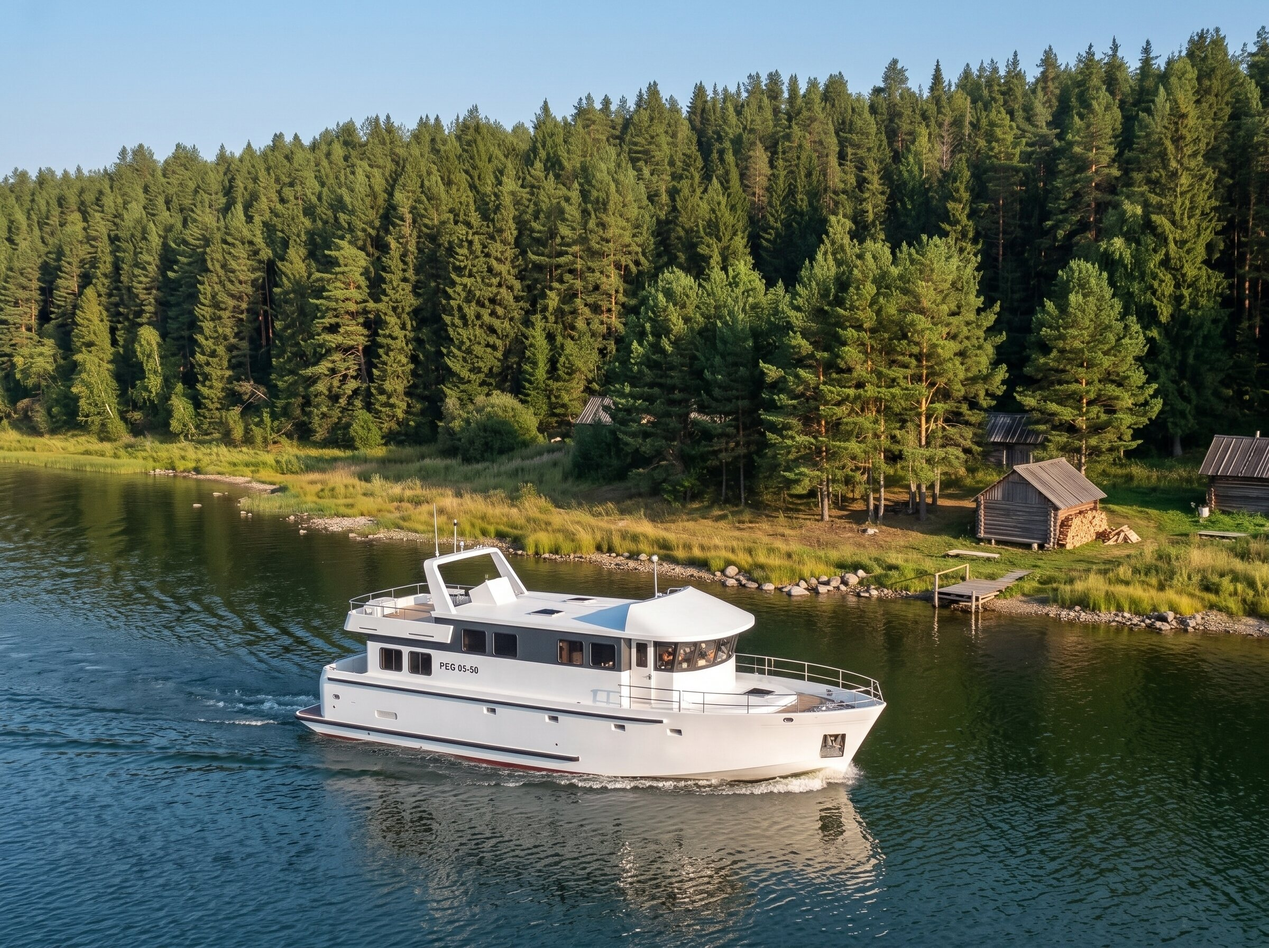
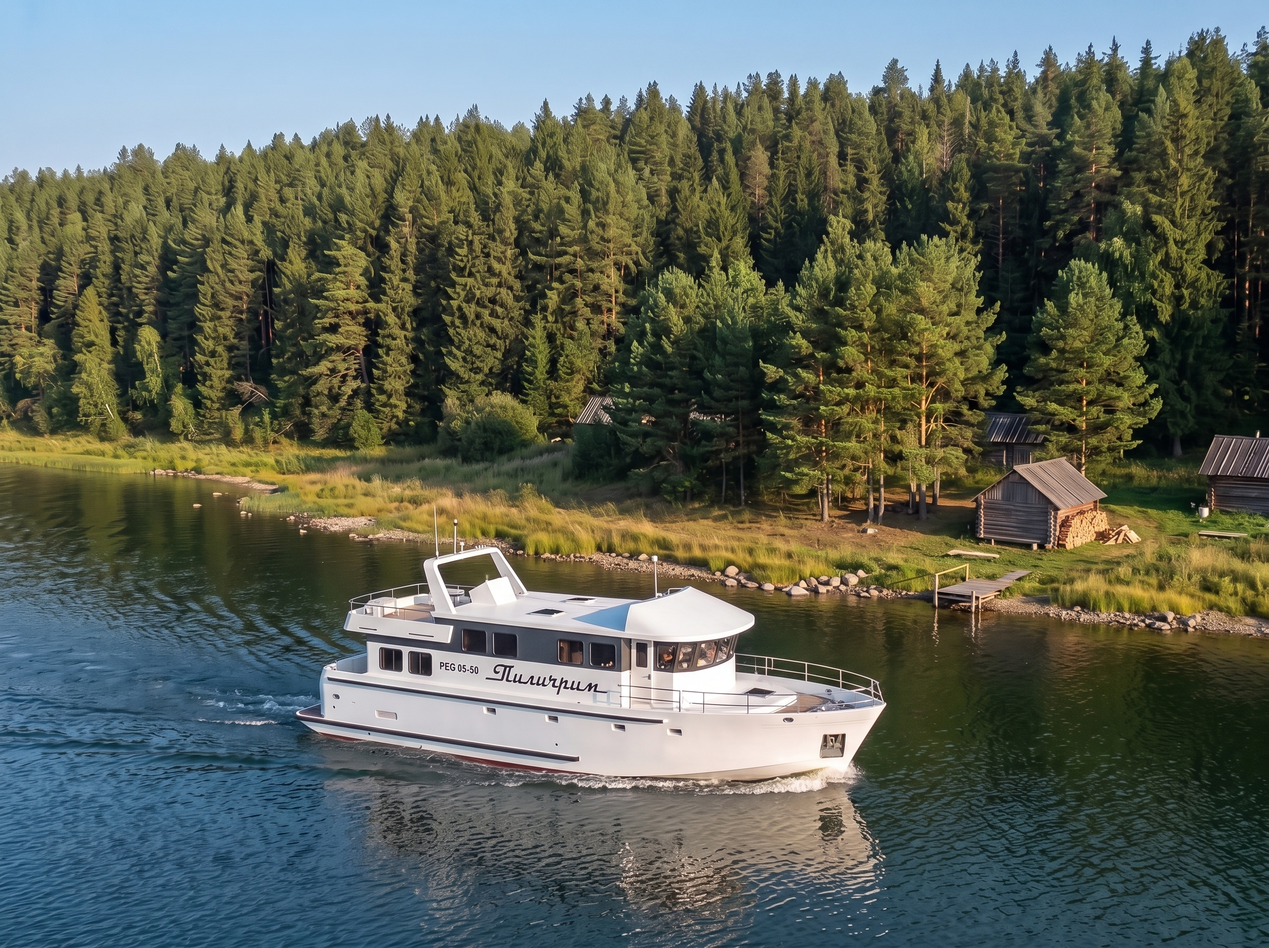
Пилигрим: no interiors + new hero, hero2 and story photos
- noInteriors flag removes the thumbnail strip and На борту gallery
  (keeps hero, overview, story, floor-plan spec sheet)
- swap hero (pilgrim.jpg v3), hero2 (pilgrim-2.jpg v2), story
  (pilgrim-story.jpg v2) photos
- bump boats-data.js v294

diff --git a/js/boats-data.js b/js/boats-data.js
@@ -474,8 +474,8 @@ const BOATS = [
         { name: "вид сверху", items: [] }
       ]
     } },
-  { id: "piligrim",  family: "korabli", name: "Пилигрим",   status: "sold", year: "2007", img: "pilgrim.jpg?v=2", cardImg: "pilgrim-card.jpg?v=3", tags: ["На заказ"],
-    photos: { hero2: "pilgrim-2.jpg", overview: "pilgrim-overview.jpg", construction: "pilgrim-story.jpg",
+  { id: "piligrim",  family: "korabli", name: "Пилигрим",   status: "sold", year: "2007", img: "pilgrim.jpg?v=3", cardImg: "pilgrim-card.jpg?v=3", tags: ["На заказ"], noInteriors: true,
+    photos: { hero2: "pilgrim-2.jpg?v=2", overview: "pilgrim-overview.jpg", construction: "pilgrim-story.jpg?v=2",
       plans: ["pilgrim-plan-side.png","pilgrim-plan-main.png","pilgrim-plan-lower.png"] },
     content: {
       eyebrow: "Моторная яхта",

diff --git a/index.html b/index.html
@@ -443,7 +443,7 @@
     </div>
   </footer>
 
-  <script src="js/boats-data.js?v=290"></script>
+  <script src="js/boats-data.js?v=294"></script>
   <script src="js/carousel.js?v=14"></script>
   <script src="js/features.js?v=4"></script>
   <script src="js/fleet-hover.js?v=5"></script>

diff --git a/fleet.html b/fleet.html
@@ -152,7 +152,7 @@
     </div>
   </footer>
 
-  <script src="js/boats-data.js?v=290"></script>
+  <script src="js/boats-data.js?v=294"></script>
   <script src="js/fleet.js?v=43"></script>
   <script src="js/contact-modal.js?v=2"></script>
 </body>

diff --git a/boat.html b/boat.html
@@ -280,7 +280,7 @@
     </div>
   </footer>
 
-  <script src="js/boats-data.js?v=290"></script>
+  <script src="js/boats-data.js?v=294"></script>
   <script src="js/boat.js?v=45"></script>
   <script src="js/contact-modal.js?v=2"></script>
 </body>
